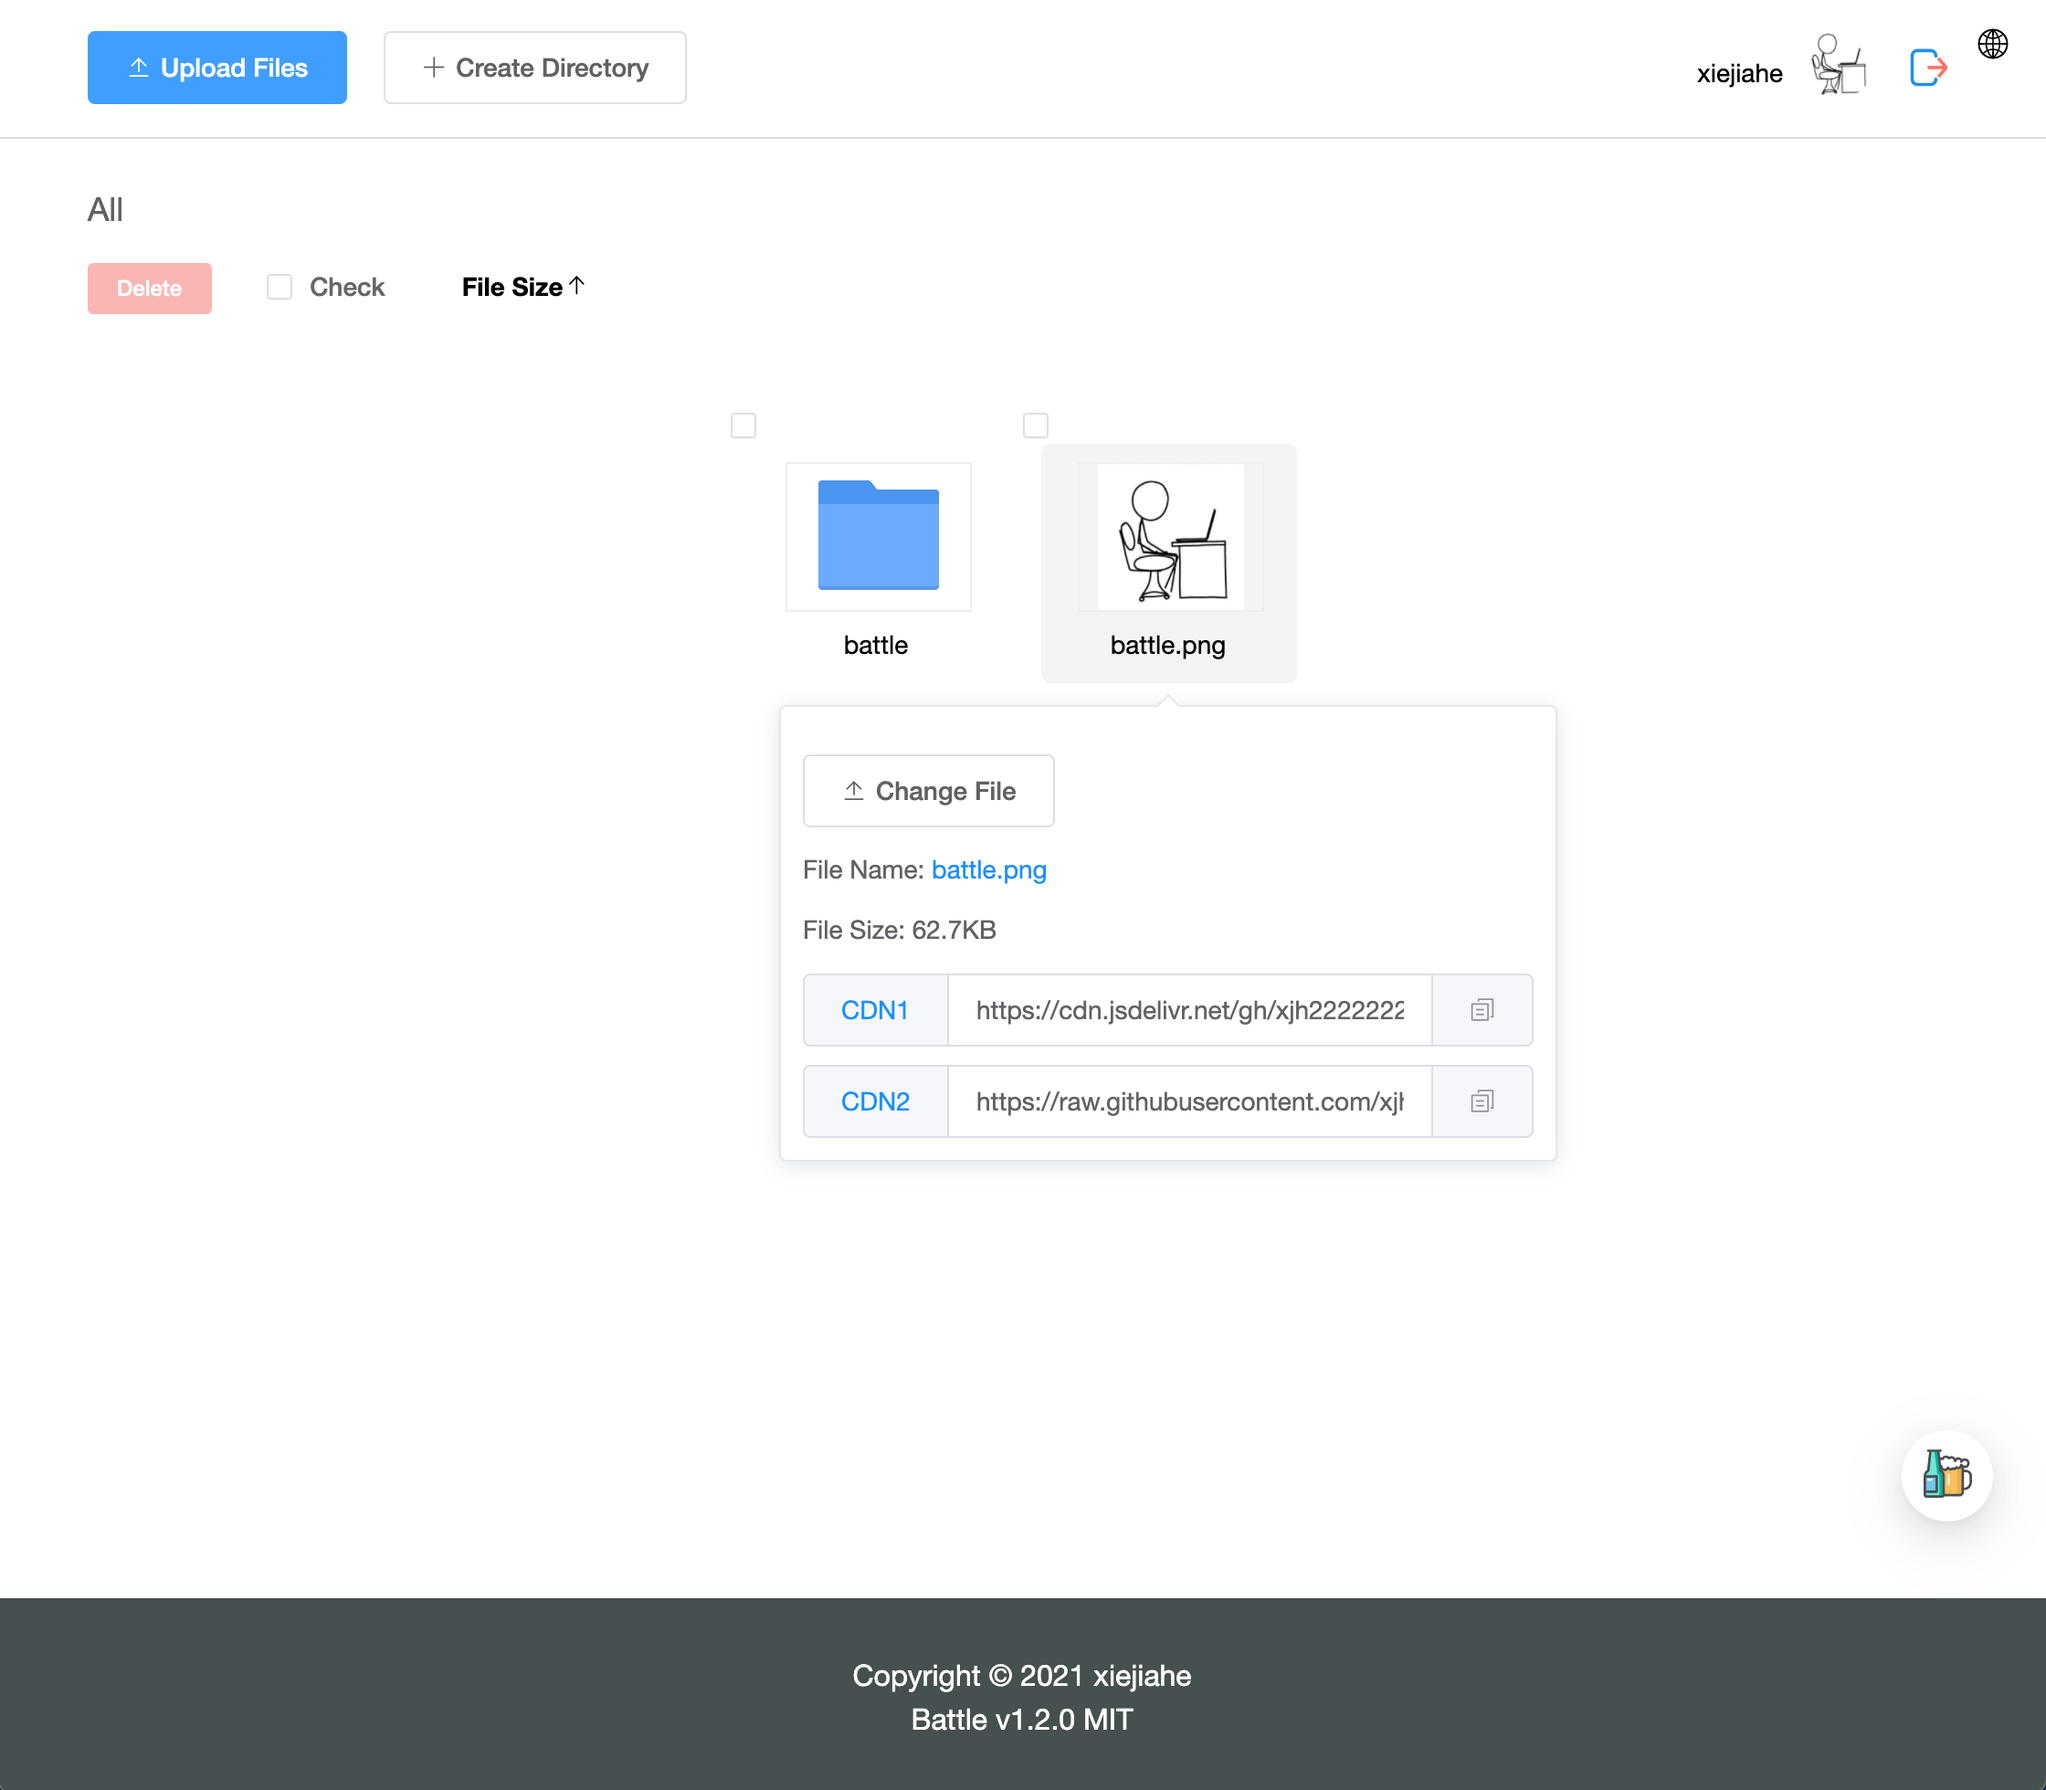
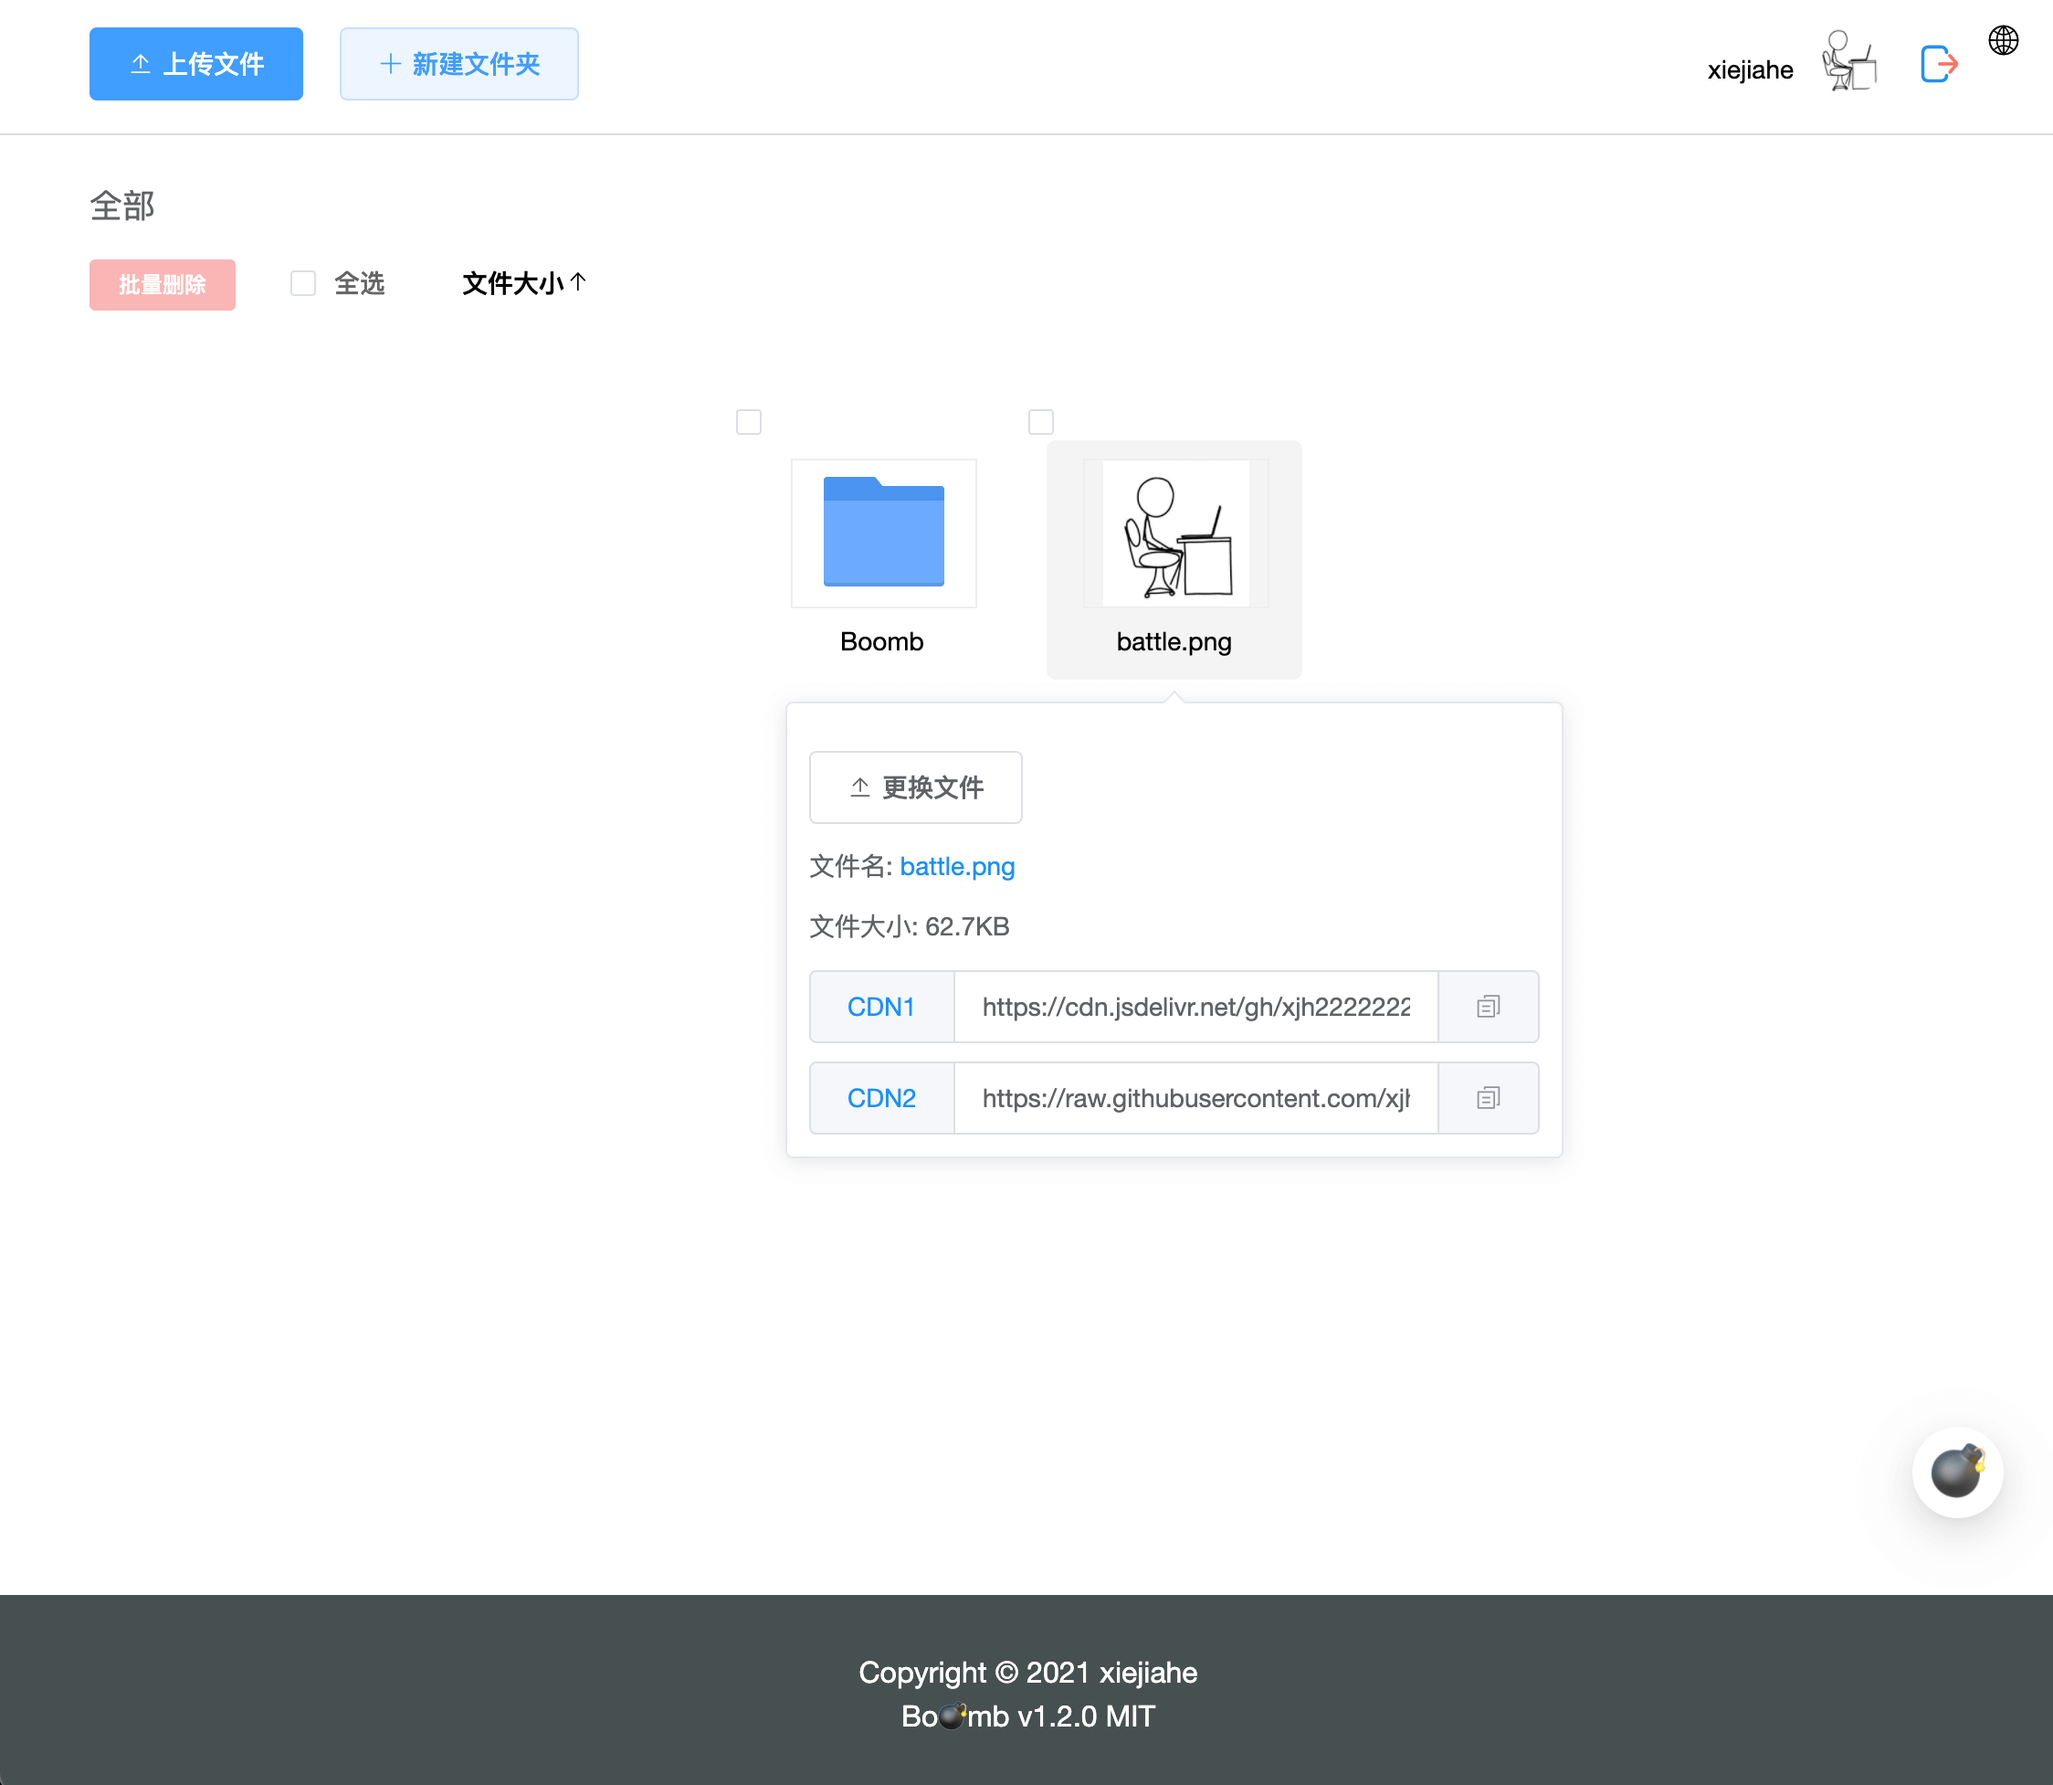
refactor: with Boomb

diff --git a/src/i18n/index.ts b/src/i18n/index.ts
@@ -15,9 +15,9 @@ export default createI18n({
 
   messages: {
     en: {
-      what: 'What is Battle?',
+      what: 'What is Boomb?',
       getToken: 'Apply for Token',
-      about: 'About Battle',
+      about: 'About Boomb',
       report: 'BUG / Suggest',
       info: 'Current Info',
       login: 'Login',
@@ -40,16 +40,16 @@ export default createI18n({
       asc: 'ASC',
       desc: 'DESC',
       description: `
-        <p class="mb10"><a href="https://github.com/xjh22222228/battle" target="_blank">Battle</a> is used to easily manage your Github storage gallery.</p>
+        <p class="mb10"><a href="https://github.com/xjh22222228/boomb" target="_blank">Boomb</a> is used to easily manage your Github storage gallery.</p>
         <p class="mb10">Some friends will use it as a picture bed. This is entirely a matter of your personal choice and has nothing to do with the author.</p>
-        <p class="mb10">Share in the spirit of open source, if it helps you, <a href="https://github.com/xjh22222228/battle" target="_blank">Star</a> will support it!</p>
+        <p class="mb10">Share in the spirit of open source, if it helps you, <a href="https://github.com/xjh22222228/boomb" target="_blank">Star</a> will support it!</p>
       `
     },
 
     'zh-CN': {
-      what: 'Battle是什么?',
+      what: 'Boomb是什么?',
       getToken: '去申请Token',
-      about: '关于 Battle',
+      about: '关于 Boomb',
       report: 'BUG / 建议',
       info: '当前信息',
       login: '登 录',
@@ -72,9 +72,9 @@ export default createI18n({
       asc: '升序',
       desc: '降序',
       description: `
-        <p class="mb10"><a href="https://github.com/xjh22222228/battle" target="_blank">Battle</a> 是用于轻松管理您的 Github 存储图库。</p>
+        <p class="mb10"><a href="https://github.com/xjh22222228/boomb" target="_blank">Boomb</a> 是用于轻松管理您的 Github 存储图库。</p>
         <p class="mb10">有的小伙伴会把它当做图床使用，这完全是您个人选择问题，与作者无任何关系。</p>
-        <p class="mb10">以开源的精神分享，如果对您有帮助，<a href="https://github.com/xjh22222228/battle" target="_blank">Star</a> 支持一下！</p>
+        <p class="mb10">以开源的精神分享，如果对您有帮助，<a href="https://github.com/xjh22222228/boomb" target="_blank">Star</a> 支持一下！</p>
       `
     }
   }

diff --git a/public/index.html b/public/index.html
@@ -1,28 +1,12 @@
-<!-- 
-           _               _                 _          _            _             _      
-          / /\            / /\              /\ \       /\ \         _\ \          /\ \    
-         / /  \          / /  \             \_\ \      \_\ \       /\__ \        /  \ \   
-        / / /\ \        / / /\ \            /\__ \     /\__ \     / /_ \_\      / /\ \ \  
-       / / /\ \ \      / / /\ \ \          / /_ \ \   / /_ \ \   / / /\/_/     / / /\ \_\ 
-      / / /\ \_\ \    / / /  \ \ \        / / /\ \ \ / / /\ \ \ / / /         / /_/_ \/_/ 
-     / / /\ \ \___\  / / /___/ /\ \      / / /  \/_// / /  \/_// / /         / /____/\    
-    / / /  \ \ \__/ / / /_____/ /\ \    / / /      / / /      / / / ____    / /\____\/    
-   / / /____\_\ \  / /_________/\ \ \  / / /      / / /      / /_/_/ ___/\ / / /______    
-  / / /__________\/ / /_       __\ \_\/_/ /      /_/ /      /_______/\__\// / /_______\   
-  \/_____________/\_\___\     /____/_/\_\/       \_\/       \_______\/    \/__________/   
-                                                                                          
-
-                  2021-03-21 - https://github.com/xjh22222228/battle
- -->
 <!DOCTYPE html>
 <html>
   <head>
     <meta name="author" content="https://github.com/xjh22222228">
     <meta charset="utf-8">
     <meta http-equiv="X-UA-Compatible" content="IE=edge">
-    <meta name="viewport" content="width=device-width,initial-scale=1.0">
-    <link rel="icon" href="<%= BASE_URL %>favicon.ico">
-    <title>Battle</title>
+    <meta name="viewport" content="width=device-width, initial-scale=1, shrink-to-fit=no, minimum-scale=1.0, maximum-scale=1.0, user-scalable=no">
+    <link rel="icon" href="<%= BASE_URL %>favicon.png">
+    <title>Boomb</title>
     <style>
       @keyframes r {
         0% { transform: rotate(0deg); } 100% { transform: rotate(45deg); }

diff --git a/src/views/Login.vue b/src/views/Login.vue
@@ -1,12 +1,14 @@
 <template>
   <section class="login">
     <div class="wrapper">
-      <h2 class="title">Battle</h2>
+      <h2 class="title">
+        <img src="logo.png" alt="" draggable="false">
+      </h2>
 
       <div class="form">
         <el-input
           v-model="id"
-          placeholder="xjh22222228/battle"
+          placeholder="xjh22222228/boomb"
           class="mb20"
           @blur="handleIdBlur"
           :disabled="loading"
@@ -63,7 +65,7 @@
 </template>
 
 <script lang="ts">
-import config from '../../config'
+import config from '@/config'
 import { computed, defineComponent, ref, watch } from 'vue'
 import { useStore } from 'vuex'
 import { verifyToken } from '@/services'
@@ -94,6 +96,7 @@ export default defineComponent({
         window.localStorage.setItem('id', id.value)
         window.localStorage.setItem('branch', branch.value)
         window.localStorage.setItem('token', token.value)
+        window.localStorage.setItem('isLogin', 'true')
         window.location.reload()
       }).finally(() => {
         loading.value = false
@@ -150,8 +153,12 @@ export default defineComponent({
   margin-top: 100px;
 
   .title {
-    font-size: 42px;
     text-align: center;
+
+    img {
+      width: 300px;
+      pointer-events: none;
+    }
   }
 
   .form {

diff --git a/src/components/Action.vue b/src/components/Action.vue
@@ -1,7 +1,7 @@
 <template>
   <div class="wrapper">
     <el-dropdown placement="top">
-      <img src="@/assets/liqueur.svg" alt="" class="img">
+      <img src="favicon.png" alt="" class="img">
 
       <template #dropdown>
         <el-dropdown-menu>
@@ -12,7 +12,7 @@
             {{ t('info') }}
           </el-dropdown-item>
           <el-dropdown-item>
-            <a href="https://issue-helper.vercel.app/?repo=xjh22222228/battle" target="_blank" class="ch">{{ t('report') }}</a>
+            <a href="https://issue-helper.vercel.app/?repo=xjh22222228/boomb" target="_blank" class="ch">{{ t('report') }}</a>
           </el-dropdown-item>
           <el-dropdown-item @click="handleAbout">{{ t('about') }}</el-dropdown-item>
         </el-dropdown-menu>
@@ -22,7 +22,7 @@
 </template>
 
 <script lang="ts">
-import config from '../../config'
+import config from '@/config'
 import { computed, defineComponent } from 'vue'
 import { useStore } from 'vuex'
 import { ElMessageBox } from 'element-plus'

diff --git a/src/store/index.ts b/src/store/index.ts
@@ -1,7 +1,7 @@
 // Copyright 2021 the xiejiahe. All rights reserved. MIT license.
 
 import bytes from 'bytes'
-import config from '../../config'
+import config from '@/config'
 import router from '@/router'
 import { createStore } from 'vuex'
 import { createFile, getUser, readDir, deleteFile, getBranchAll } from '@/services'
@@ -45,8 +45,6 @@ type State = {
   branchAll: IBranch[]
 }
 
-const token = config.token
-
 export default createStore<State>({
   state() {
     return {
@@ -59,8 +57,8 @@ export default createStore<State>({
         bio: '',
         html_url: ''
       },
-      token,
-      isLogin: !!token,
+      token: config.token,
+      isLogin: config.isLogin,
       dir: [],
 
       // 缓存目录列表

diff --git a/src/router/index.ts b/src/router/index.ts
@@ -3,7 +3,7 @@
 import { createRouter, createWebHashHistory, RouteRecordRaw } from 'vue-router'
 import Home from '../views/Home.vue'
 import Login from '../views/Login.vue'
-import config from '../../config'
+import config from '@/config'
 
 const routes: RouteRecordRaw[] = [
   {
@@ -28,7 +28,7 @@ const router = createRouter({
   routes
 })
 
-const isLogin = !!config.token
+const { isLogin } = config
 
 router.beforeEach((to) => {
   if (to.name === 'Login' && isLogin) {

diff --git a/src/components/Footer.vue b/src/components/Footer.vue
@@ -1,7 +1,7 @@
 <template>
   <footer class="footer">
     Copyright © 2021 <a href="https://github.com/xjh22222228" class="ch" target="_blank">xiejiahe</a>
-    <div><a href="https://github.com/xjh22222228/battle" target="_blank" class="ch">Battle </a> v{{ version }} MIT</div>
+    <div><a href="https://github.com/xjh22222228/boomb" target="_blank" class="ch">Bo💣mb </a> v{{ version }} MIT</div>
   </footer>
 </template>
 

diff --git a/src/services/index.ts b/src/services/index.ts
@@ -3,7 +3,7 @@
 // https://docs.github.com/en/rest/reference
 // https://docs.github.com/en/rest/reference/permissions-required-for-github-apps
 
-import config from '../../config'
+import config from '@/config'
 import { get, put, del } from '@/utils/http'
 import { encode } from 'js-base64'
 import { IFile } from '@/store'

diff --git a/src/utils/index.ts b/src/utils/index.ts
@@ -32,7 +32,7 @@ export function initClipboard() {
 }
 
 export function logout() {
-  const removeKeys = ['token', 'isLogin']
+  const removeKeys = ['isLogin']
   const keys = []
   const len = window.localStorage.length
 

diff --git a/src/utils/http.ts b/src/utils/http.ts
@@ -2,7 +2,7 @@
 
 import axios from 'axios'
 import NProgress from 'nprogress'
-import config from '../../config'
+import config from '@/config'
 import { ElNotification } from 'element-plus'
 
 const token = config.token

diff --git a/src/config/index.ts b/src/config/index.ts
@@ -6,4 +6,6 @@ export default {
   branch: window.localStorage.getItem('branch') ?? '',
 
   token: window.localStorage.getItem('token') ?? '',
+
+  isLogin: !!window.localStorage.getItem('isLogin')
 }

diff --git a/README_zh-CN.md b/README_zh-CN.md
@@ -1,16 +1,17 @@
 
 <p align="center">
-  <br />
-  <h1>Battle</h1>
+  <a href="https://boomb.cn">
+    <img src="public/logo.png" width="300" />
+  </a>
   <p align="center">基于 Github 轻松管理您的存储图库</p>
   <p align="center">有的小伙伴会把它当做图床使用，这完全是您个人选择问题，与作者无任何关系。</p>
   <p align="center">
     <a href="README.md">
       <img src="https://img.shields.io/badge/lang-%E7%AE%80%E4%BD%93%E4%B8%AD%E6%96%87-red.svg?longCache=true&style=flat-square">
     </a>
-    <img src="https://img.shields.io/github/v/release/xjh22222228/battle" />
+    <img src="https://img.shields.io/github/v/release/xjh22222228/boomb" />
     <img alt="Vue3" src="https://img.shields.io/static/v1.svg?label=&message=Vue3&style=flat-square&color=42b983">
-    <img src="https://img.shields.io/github/license/xjh22222228/battle" />
+    <img src="https://img.shields.io/github/license/xjh22222228/boomb" />
   </p>
 </p>
 
@@ -27,7 +28,7 @@
 ## 像数 1, 2, 3 一样容易
 1. [创建一个仓库](https://github.com/new)
 2. 申请Token => [https://github.com/settings/tokens](https://github.com/settings/tokens)
-3. 打开 [https://battle-nine.vercel.app](https://battle-nine.vercel.app).
+3. 打开 [https://boomb.cn](https://boomb.cn).
 
 
 
